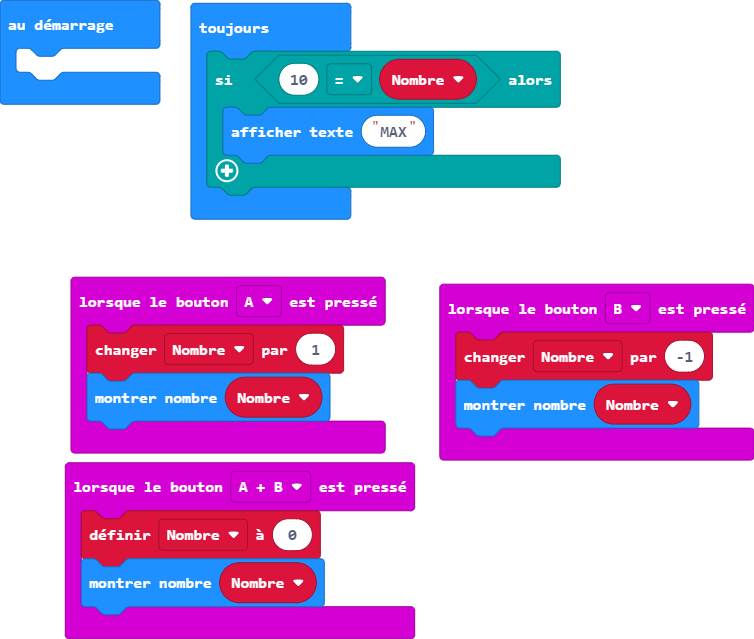
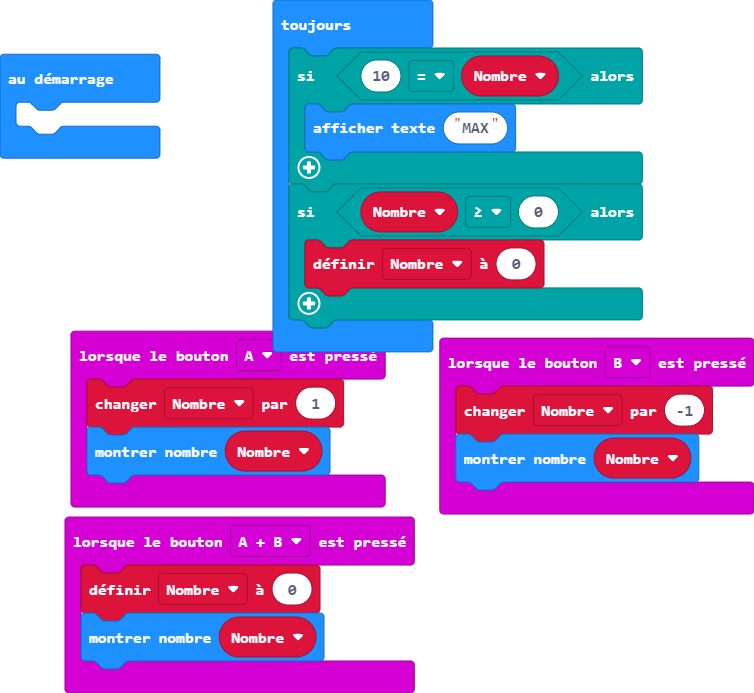
Mettre à jour main.blocks, main.ts

diff --git a/main.ts b/main.ts
@@ -15,4 +15,7 @@ basic.forever(function () {
     if (10 == Nombre) {
         basic.showString("MAX")
     }
+    if (Nombre >= 0) {
+        Nombre = 0
+    }
 })
